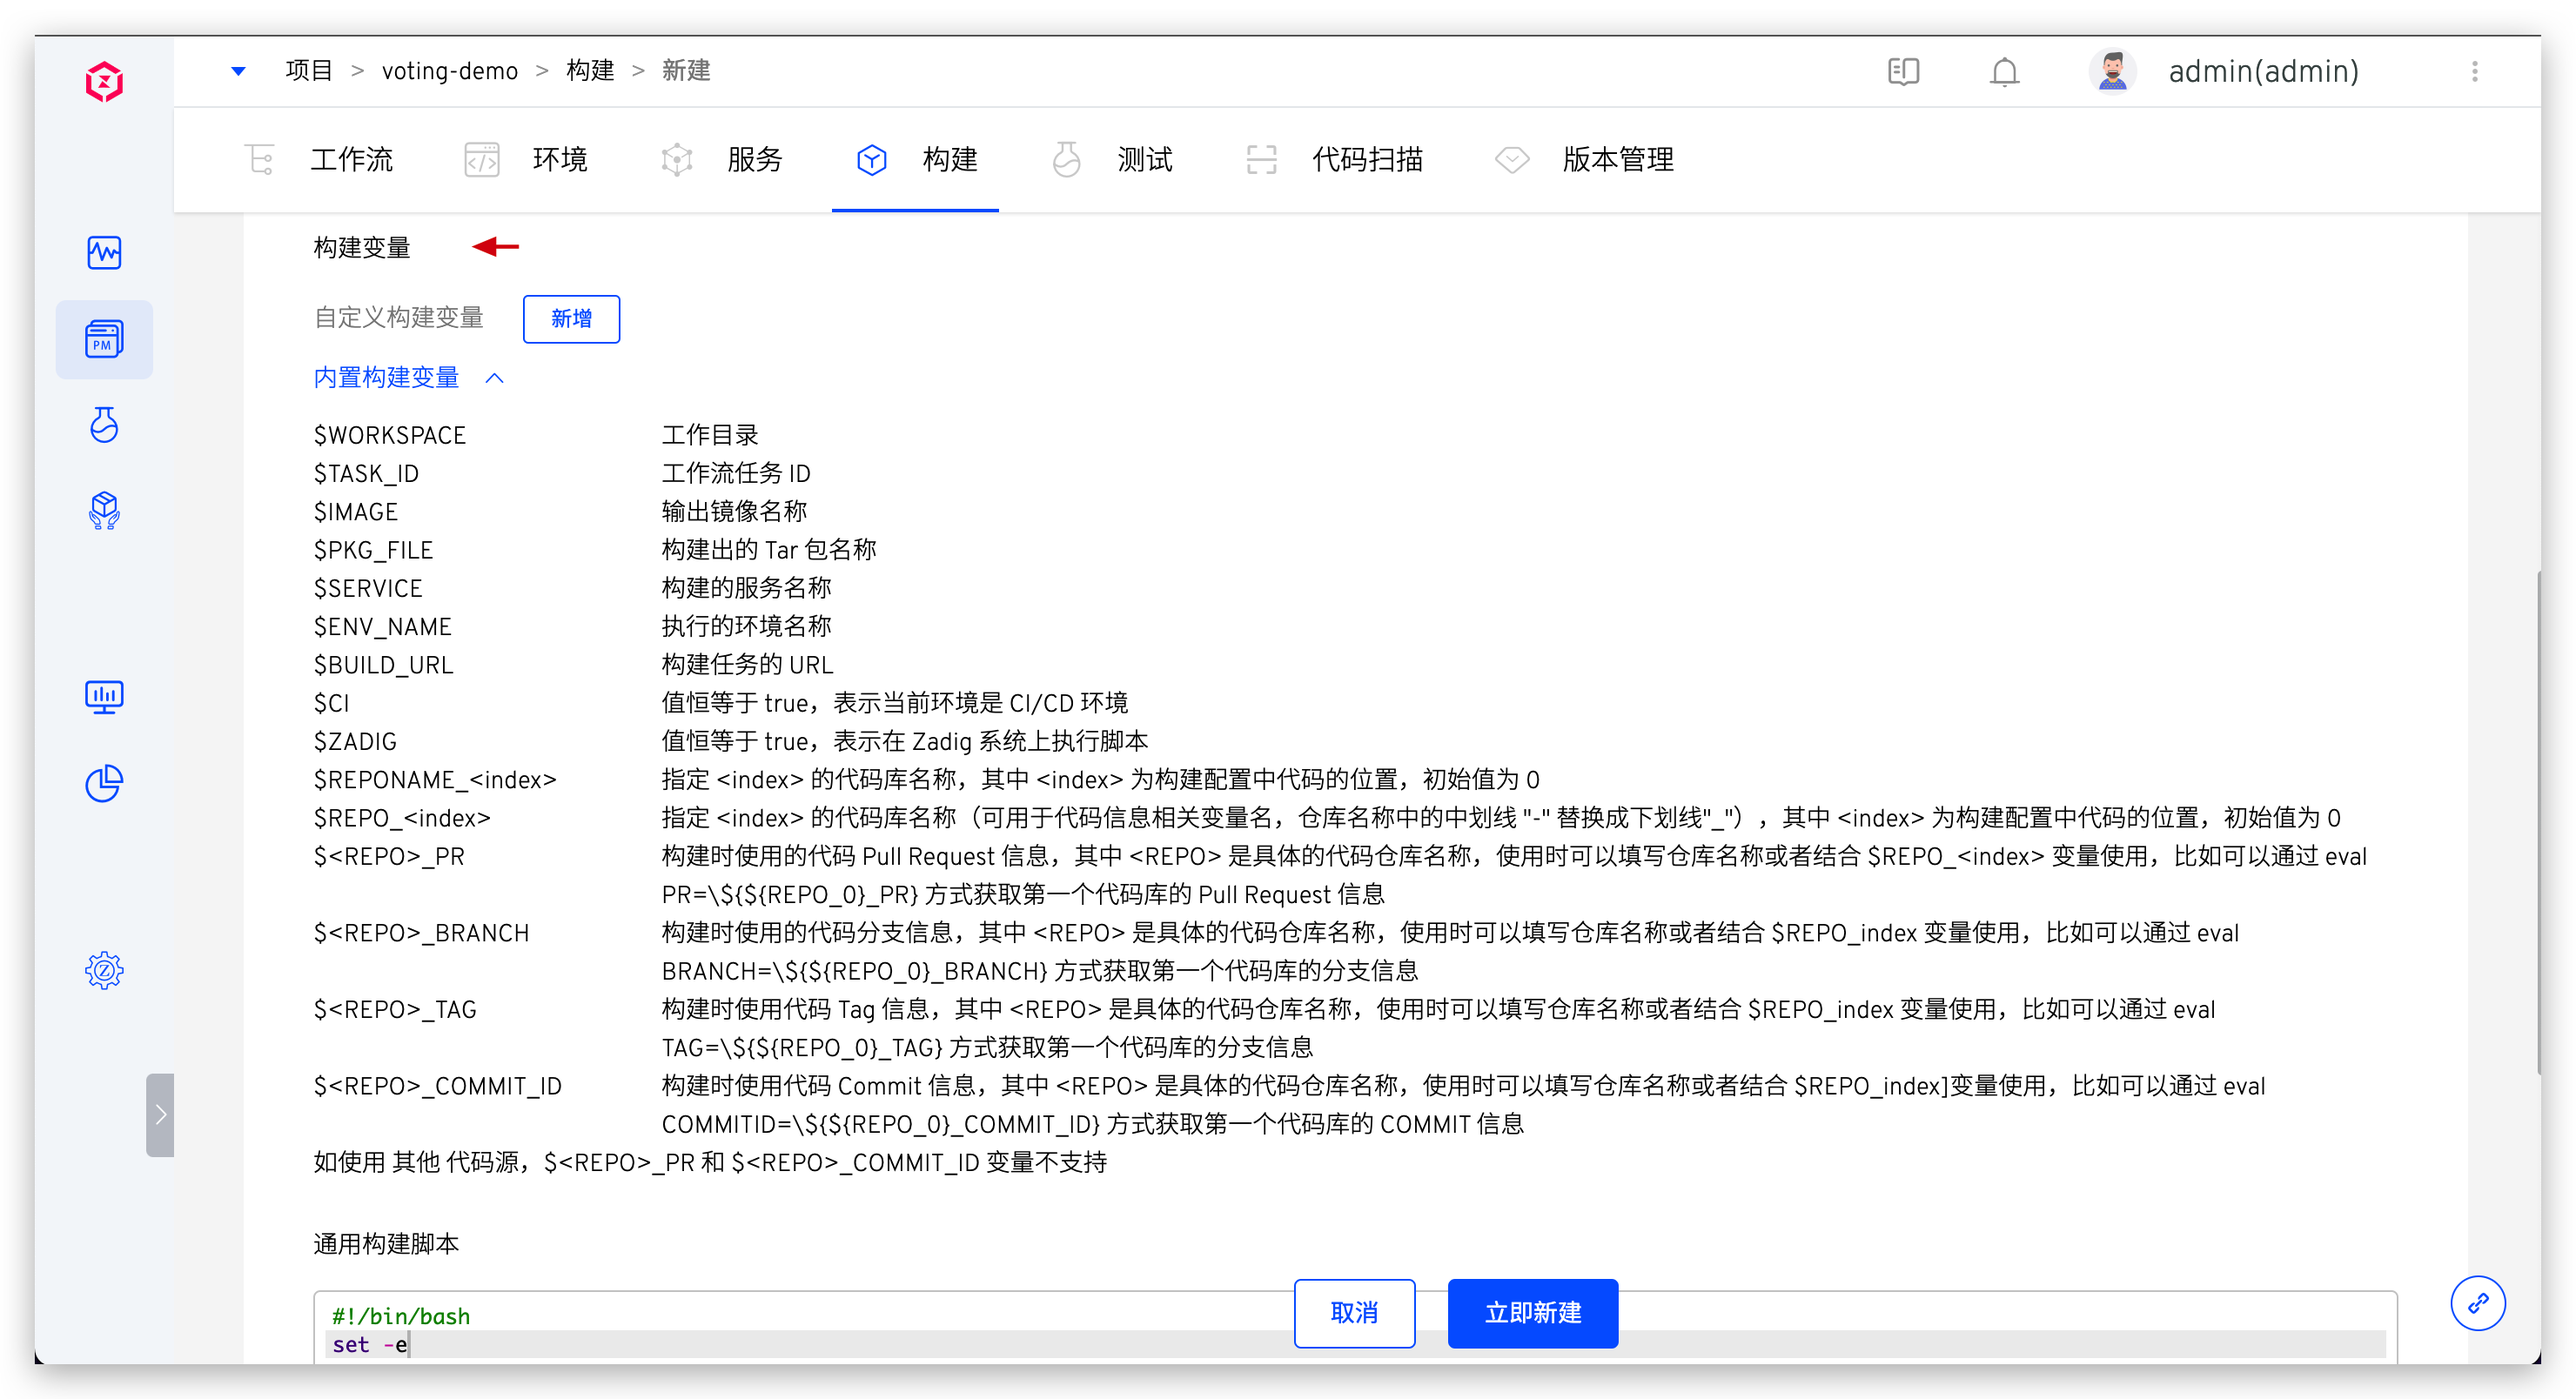
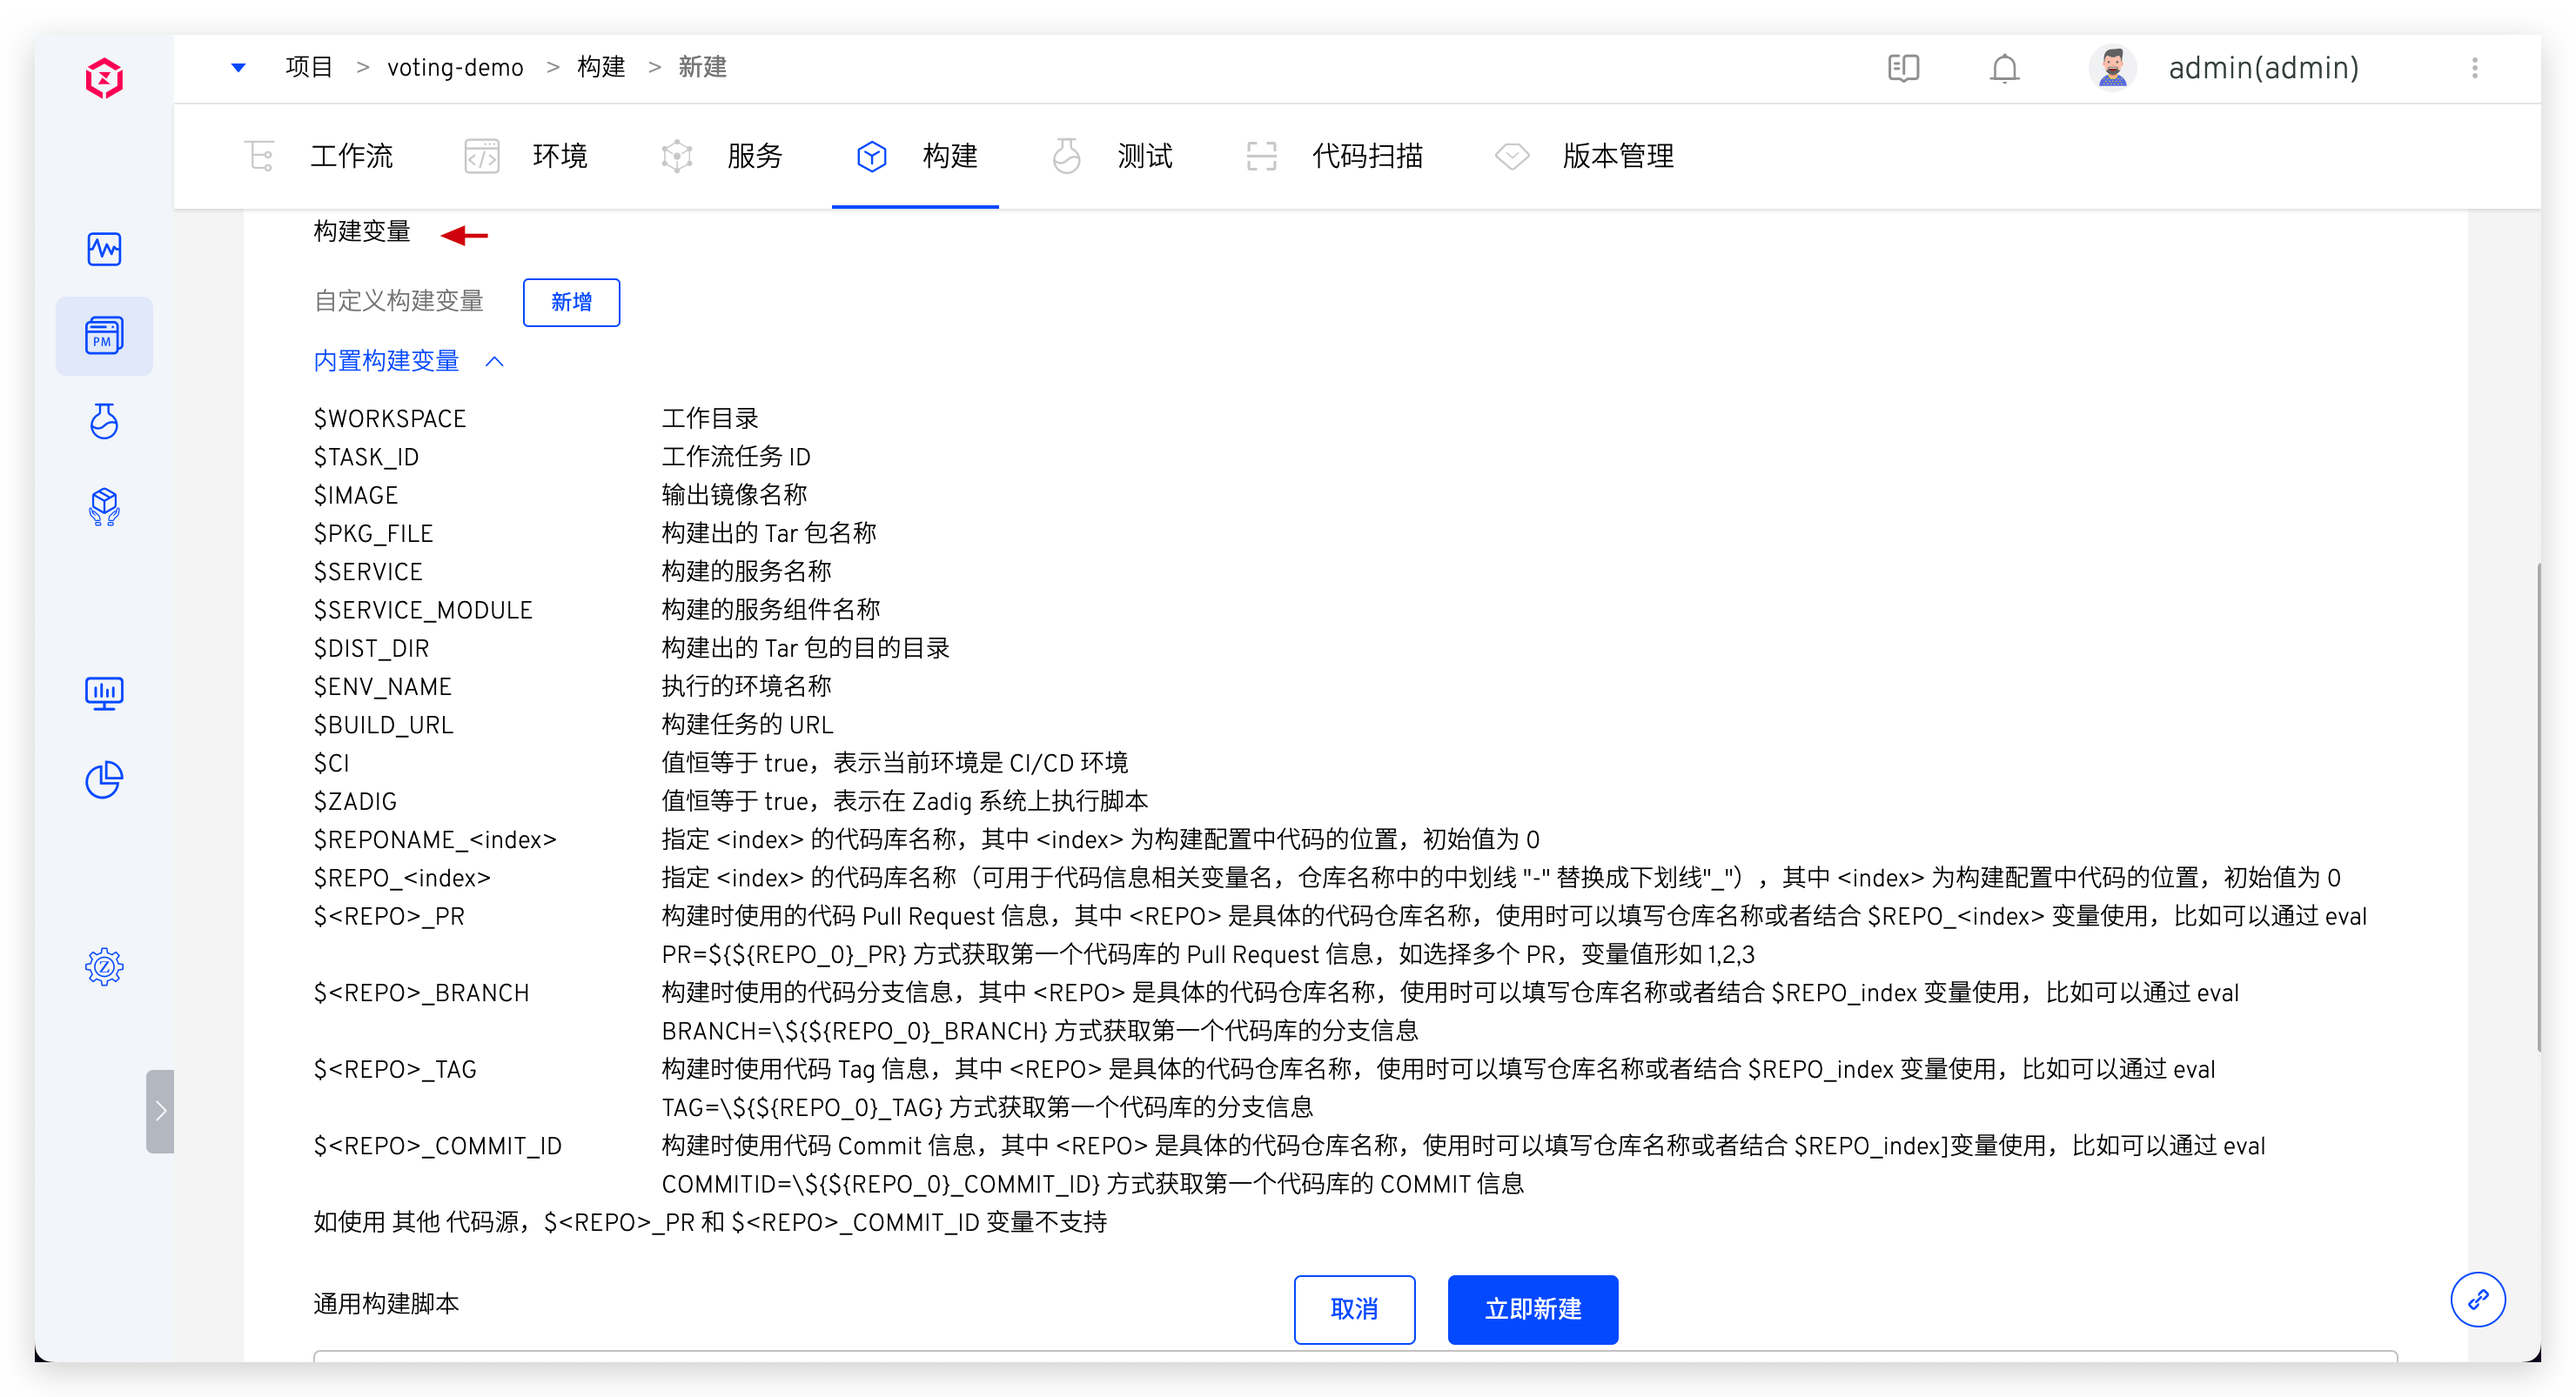
trigger workflow with multi PRs

diff --git a/dev/06.工作流/00.workflow-trigger.md b/dev/06.工作流/00.workflow-trigger.md
@@ -36,11 +36,14 @@ permalink: /dev/workflow/trigger/
 - `服务`：选择此次任务更新的服务组件名称，支持在一次工作流任务中更新多个服务组件。
 - `代码选择`：用户完成选择服务后，可以自由选择代码信息，Zadig 提供四种代码构建方式：
     - 选择某个 Branch，系统会拉取该 Branch 的代码进行构建。
-    - 选择某个 Branch + pull request 构建，系统会在工作目录中将 pull request 自动合并到所选 Branch 后进行构建。
-    - 选择某个 pull request，系统会拉取该 pull request 的代码进行构建。
+    - 选择某个 Branch + pull request 构建，系统会在工作目录中将 pull request 自动合并到所选 Branch 后进行构建，支持选择多个 pull request。
+    - 选择 pull request，系统会拉取该 pull request 的代码进行构建，支持选择多个 pull request。
     - 选择 Tag 构建，系统会拉取该 Tag 的代码进行构建。
 - `变量`：构建和测试脚本中设置的自定义变量，在启动工作流时候可以传入具体的值。
 
+::: tip
+若指定了多个 pull request 进行构建，请确保若合并多个 pull request 的话没有冲突，否则可能会因为代码冲突导致编译失败，进而导致构建失败。
+:::
 
 ## 代码变更触发
 

diff --git a/dev/04.项目/04.服务/01.k8s_service.md b/dev/04.项目/04.服务/01.k8s_service.md
@@ -342,9 +342,9 @@ spec:
 |`TIMESTAMP`|工作流任务的执行时间戳，形如 `20211029113304`|
 |`TASK_ID`|工作流任务的 ID|
 |`REPO_BRANCH`|构建过程中指定代码仓库使用的分支信息，JENKINS 生成镜像规则中不适用|
-|`REPO_PR`|构建过程中指定代码仓库使用的 Pull Request 信息，JENKINS 生成镜像规则中不适用|
-|`REPO_TAG`|构建过程中指定代码仓库使用的 Tag 信息，JENKINS 生成镜像规则中不适用|
-|`REPO_COMMIT_ID`|构建过程中指定代码仓库使用的 Commit ID 信息，JENKINS 生成镜像规则中不适用|
+|`REPO_PR`|1. 构建过程中指定代码仓库使用的 Pull Request ID 信息，若指定了多个 Pull Request，则会使用 `-` 将多个 ID 拼接起来<br>2. JENKINS 生成镜像规则中该变量不适用|
+|`REPO_TAG`|1. 构建过程中指定代码仓库使用的 Tag 信息<br>2. JENKINS 生成镜像规则中不适用|
+|`REPO_COMMIT_ID`|1. 构建过程中指定代码仓库使用的 Commit ID 信息<br>2. JENKINS 生成镜像规则中不适用|
 |`PROJECT`|构建所属的 Zadig 项目名称|
 |`SERVICE`|构建编译的服务名称|
 |`ENV_NAME`|构建部署的环境名称|
